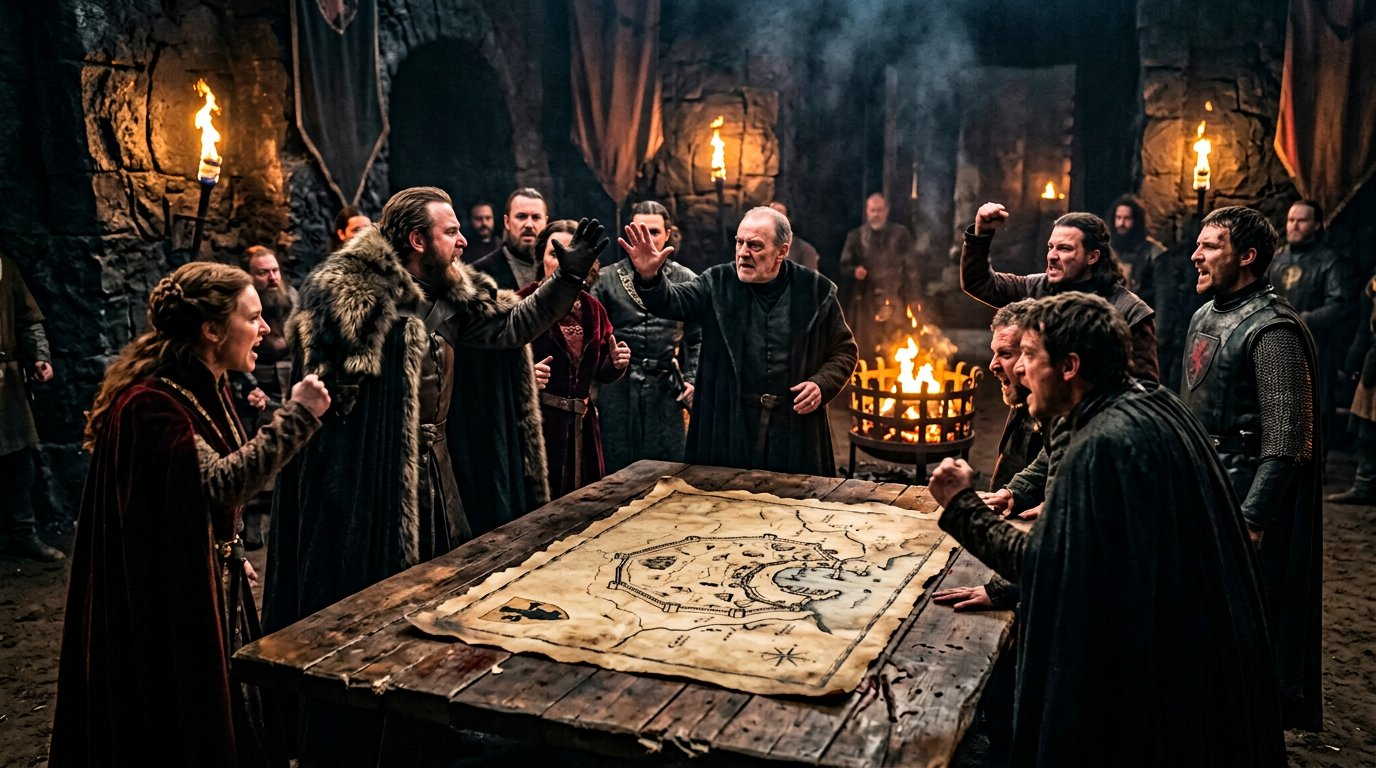
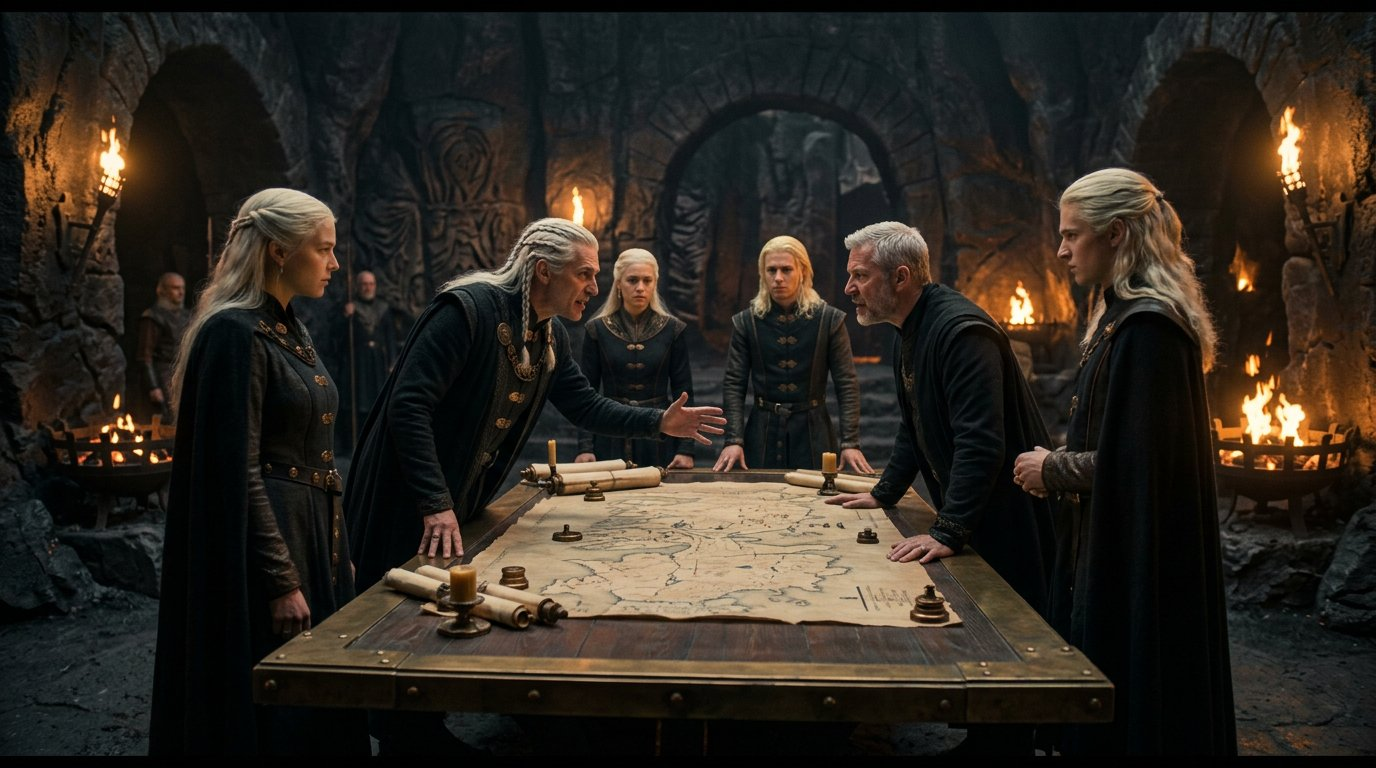
fix(ep002): repair 042 and 044, generate to scene 056
Two defects fixed and verified at full size. Scene 042 is now a Valyrian
council in black volcanic rock instead of a Westerosi stone hall with fur
cloaks. Scene 044 is a wax seal pressed on blank parchment, replacing a
scroll that had legible English printed on it.

Adds scenes 049-056. Fifty-six of seventy masters, eight hundred and forty
of 1050 plates.

One new defect: scene 051 came back as a contemporary Kathmandu bazaar with
cycle rickshaws and a modern wristwatch. The direction described a lesser
market city, which is a stock-photograph brief, and the model went to real
reference. It needs an explicit Ghiscari anchor rather than a generic one.

Scene 056 is deliberately modern - an archaeological trench - and is kept.

diff --git a/scripts/episode-audit/ep002_check_art.py b/scripts/episode-audit/ep002_check_art.py
@@ -20,7 +20,10 @@ RISK = {
     42: "council of rival noble houses - produced generic Westeros with fur "
         "cloaks in take one; must be Valyrian black stone and firelight",
     44: "hand writing a refusal on a scroll - produced legible English text "
-        "inside the image in take one; must have no readable characters",
+        "inside the image in take one; fixed with a blank sealed scroll",
+    51: "lesser city, markets going on around it - produced a real modern "
+        "Kathmandu street with cycle rickshaws in take one; must be Ghiscari",
+    56: "modern excavation trench - intentionally modern, keep the excavators",
 }
 
 STYLE_BAN = (

diff --git a/projects/ancient_world_of_ice_and_fire/episodes/ep002_harpy_and_dragon/art_dev/DEFECTS.md b/projects/ancient_world_of_ice_and_fire/episodes/ep002_harpy_and_dragon/art_dev/DEFECTS.md
@@ -6,6 +6,31 @@ hide it. These are the ones found so far.
 
 ## OPEN
 
+### 051 — a real modern street in a fictional ancient one
+
+**Wrong:** cycle rickshaws, a modern wristwatch on the near hand, a Western
+jacket sleeve, modern shirts and shop signage. This is a contemporary Nepali
+bazaar, photographed. It is not merely anachronistic, it is a real place.
+
+**Why it happened:** the direction asked for a "lesser city" with "markets
+going on around it" and a hand weighing a coin. That is a stock photograph
+brief, and the model went to the strongest real reference it had.
+
+**Fix:** anchor the city explicitly — small Ghiscari coastal town, brick and
+ochre, and no modern clothing or vehicles anywhere in frame. Keep the bronze
+harpy above the door and the hand with the coin, which were right.
+
+**Blast radius:** 15 plates (0751–0765), built but not in any render.
+
+### 044 — FIXED
+
+Regenerated as a wax seal on blank parchment. Verified: no lettering at all.
+
+### 042 — FIXED
+
+Regenerated as a Valyrian council in black volcanic rock. Verified: silver
+hair, braziers, no fur.
+
 ### 044 — English text burned into the picture
 
 **Wrong:** the scroll reads "Refusal to Sign" and "I must firmly refuse" in clear
